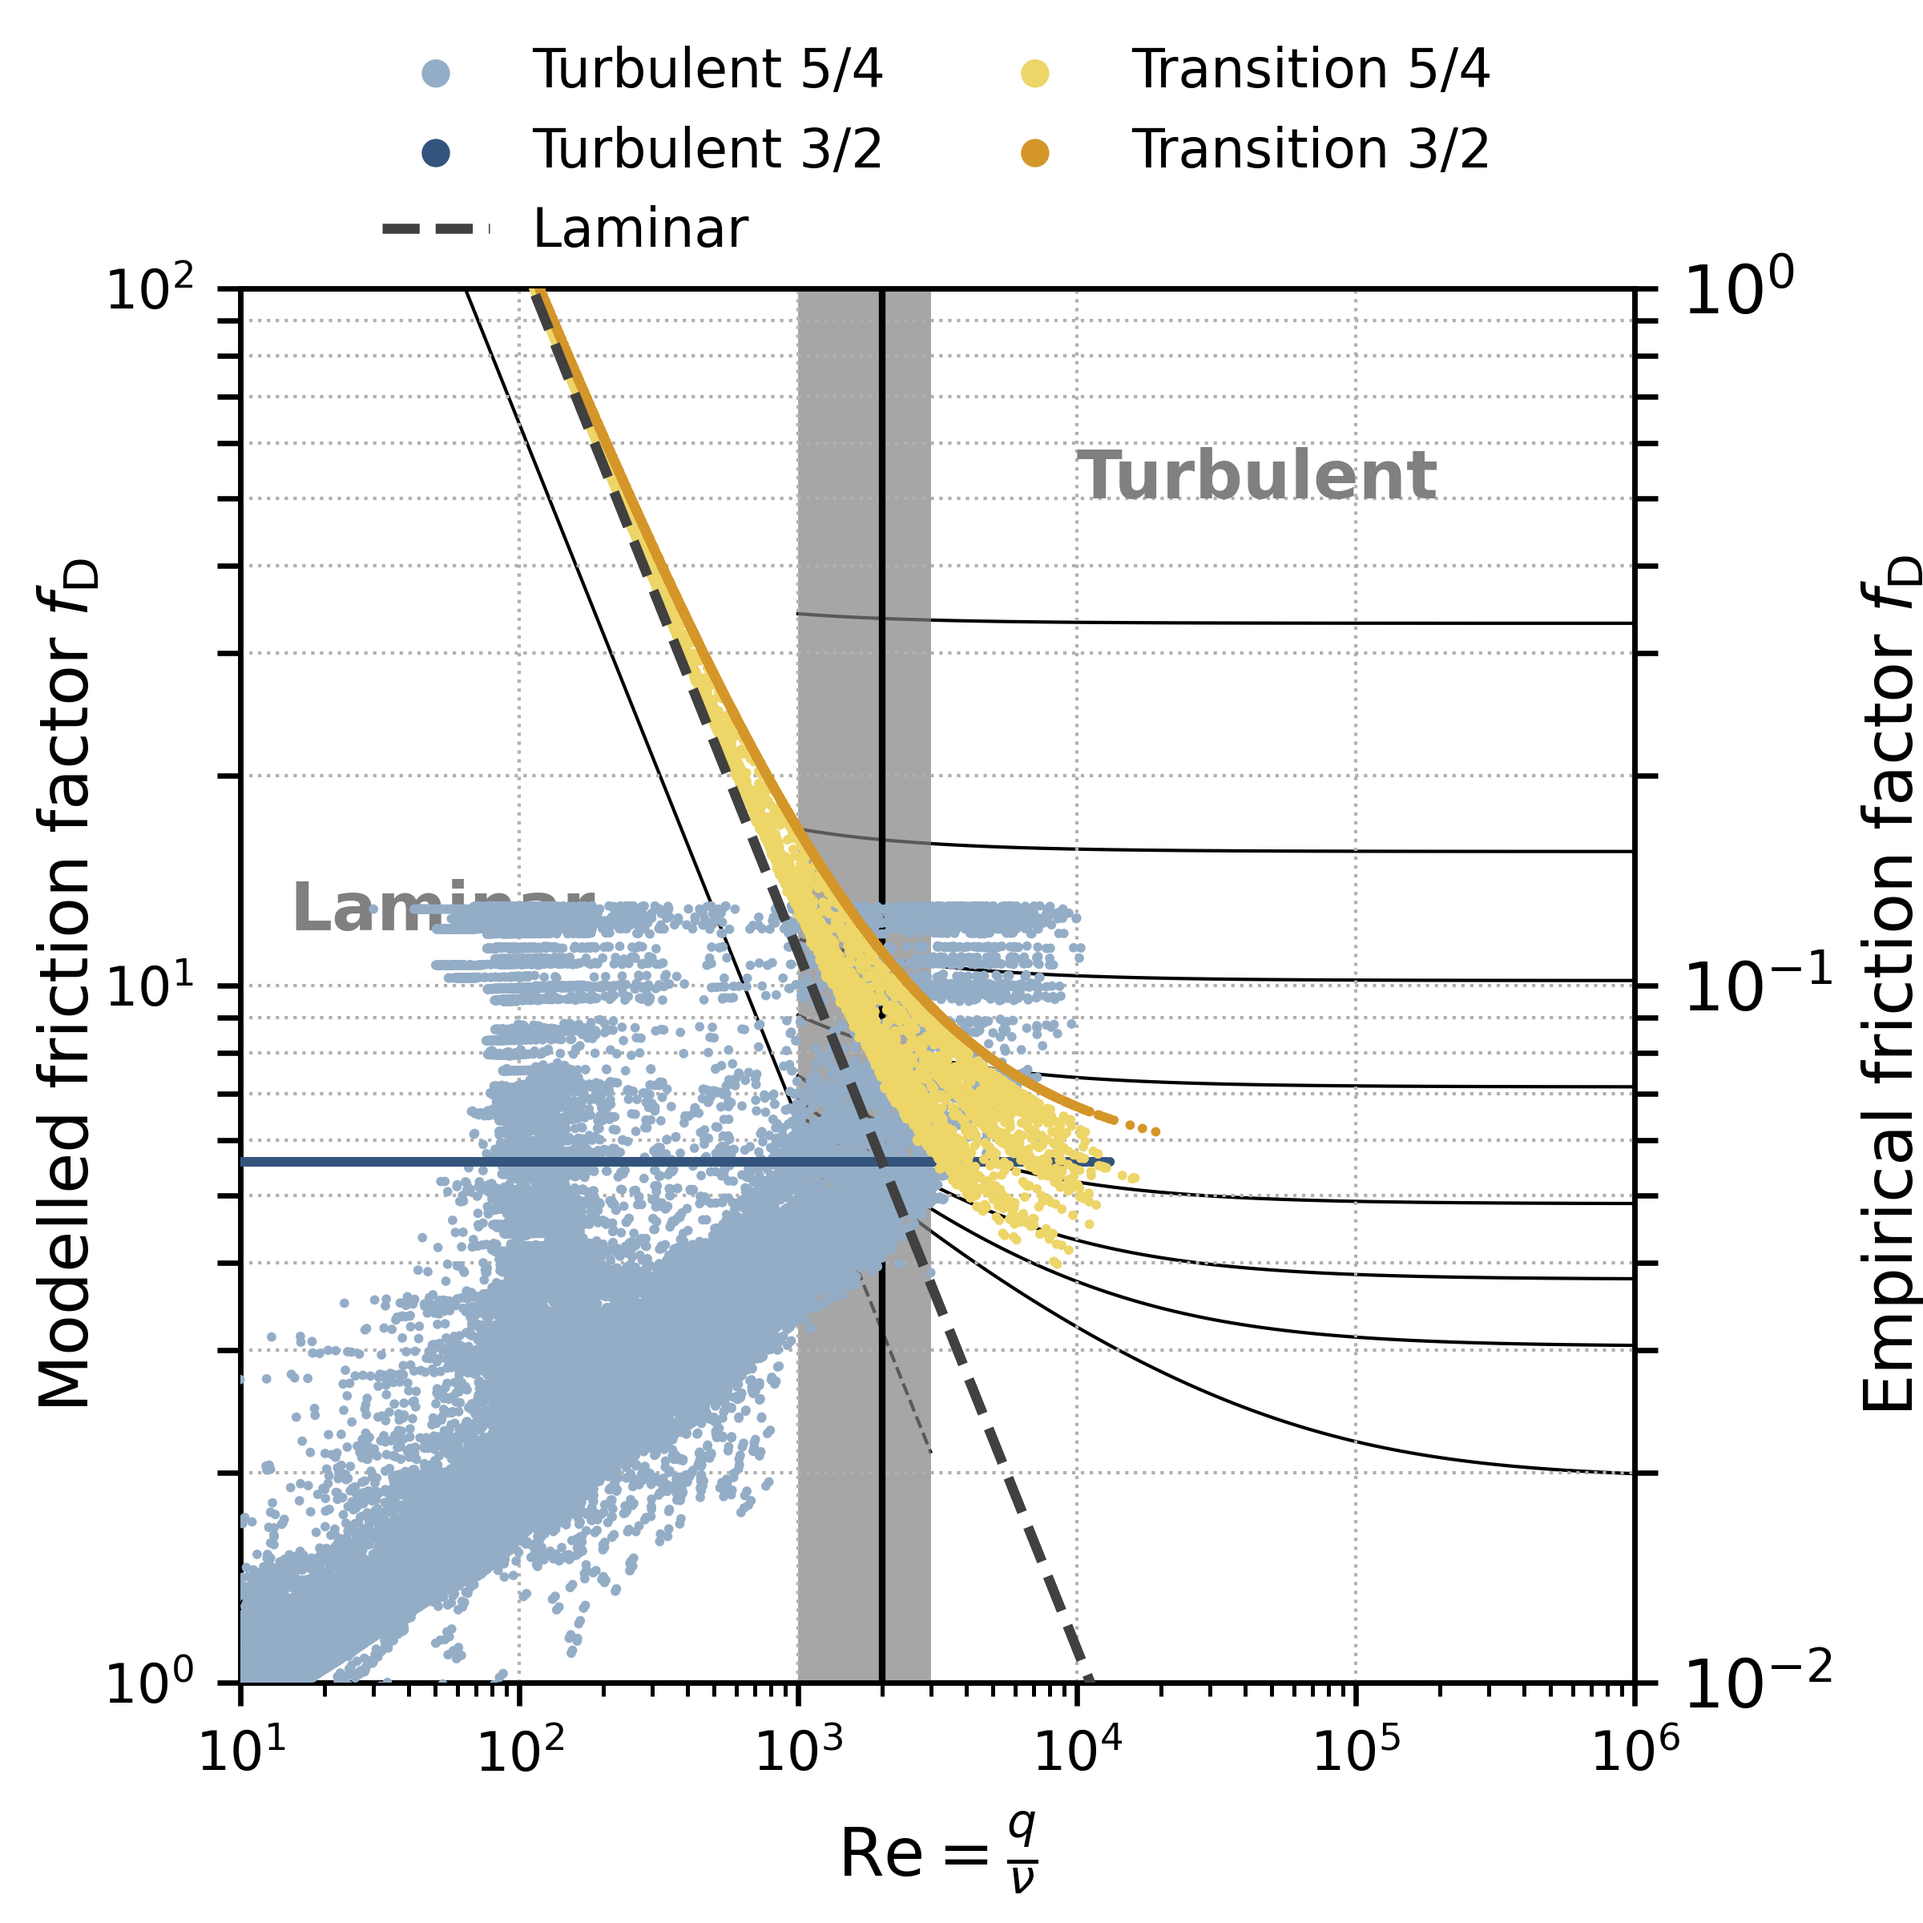
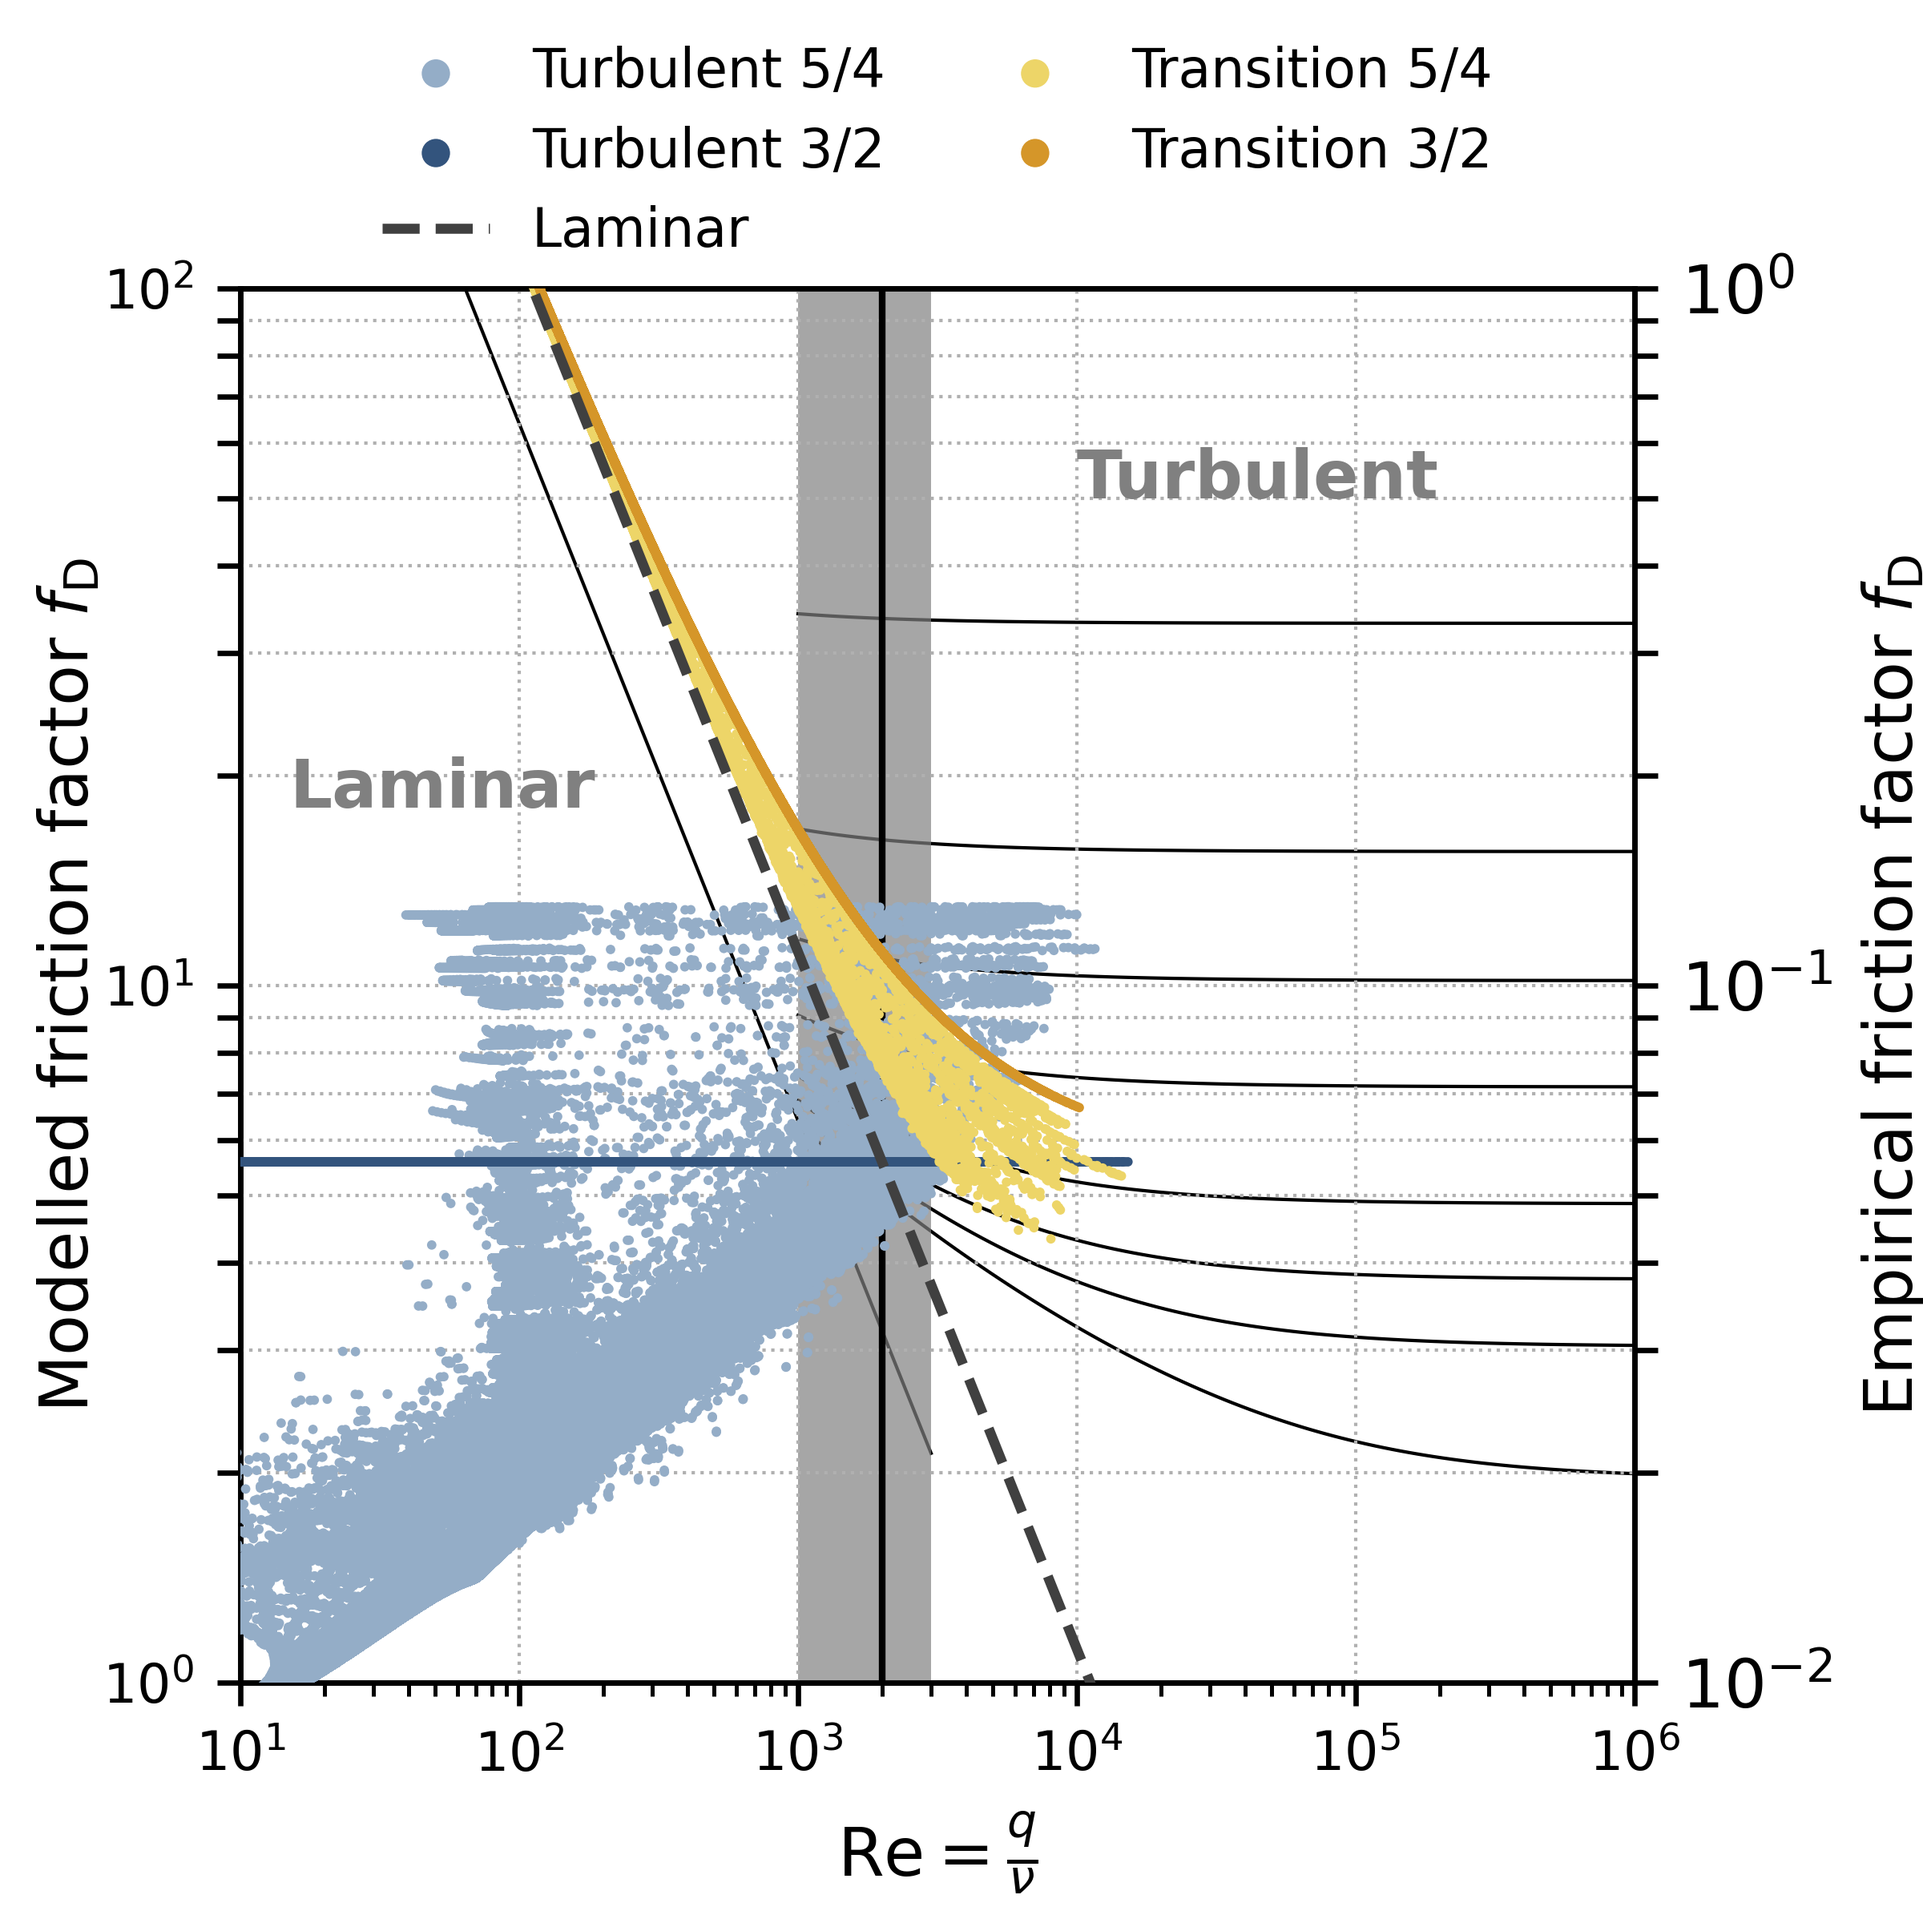
Moody scatter

Changed region(s): [[0.125, 0.375, 0.5938, 0.875]]

diff --git a/analysis/plot_moody_scatter.py b/analysis/plot_moody_scatter.py
@@ -211,14 +211,14 @@ def plot_moody(fnames, fignames, colors=defaults.colors, omega=1/2000,
 # plt.show()
 
 if __name__=='__main__':
-    #cases = [1, 2, 3, 4, 5]
-    #fnames = ['../glads/00_synth_forcing/RUN/output_%03d_seasonal.nc'%caseid for caseid in cases]
-    #models = ['Turbulent 5/4', 'Turbulent 3/2', 'Laminar', 'Transition 5/4', 'Transition 3/2']
-    #fignames = ['figures/main/00_moody_composite_theory.png', 'figures/main/00_moody_composite_scatter.png']
-    #plot_moody(fnames, fignames, models=models)
-
-    cases = [401, 402, 403, 404, 405]
-    fnames = ['../glads/dev_01_kan_forcing_scaling/RUN/output_%03d_seasonal.nc'%caseid for caseid in cases]
+    cases = [1, 2, 3, 4, 5]
+    fnames = ['../glads/00_synth_forcing/RUN/output_%03d_seasonal.nc'%caseid for caseid in cases]
     models = ['Turbulent 5/4', 'Turbulent 3/2', 'Laminar', 'Transition 5/4', 'Transition 3/2']
-    figname = ['tmp.png', 'figures/aux/dev_01_moody_composite_scatter_40X.png']
-    plot_moody(fnames, figname, models=models, k_lam=0.05)
+    fignames = ['figures/main/00_moody_composite_theory.png', 'figures/main/00_moody_composite_scatter.png']
+    plot_moody(fnames, fignames, models=models)
+
+    # cases = [401, 402, 403, 404, 405]
+    # fnames = ['../glads/dev_01_kan_forcing_scaling/RUN/output_%03d_seasonal.nc'%caseid for caseid in cases]
+    # models = ['Turbulent 5/4', 'Turbulent 3/2', 'Laminar', 'Transition 5/4', 'Transition 3/2']
+    # fignames = ['figures/main/00_moody_composite_theory.png', 'figures/main/00_moody_composite_scatter.png']
+    # plot_moody(fnames, figname, models=models, k_lam=0.05)
